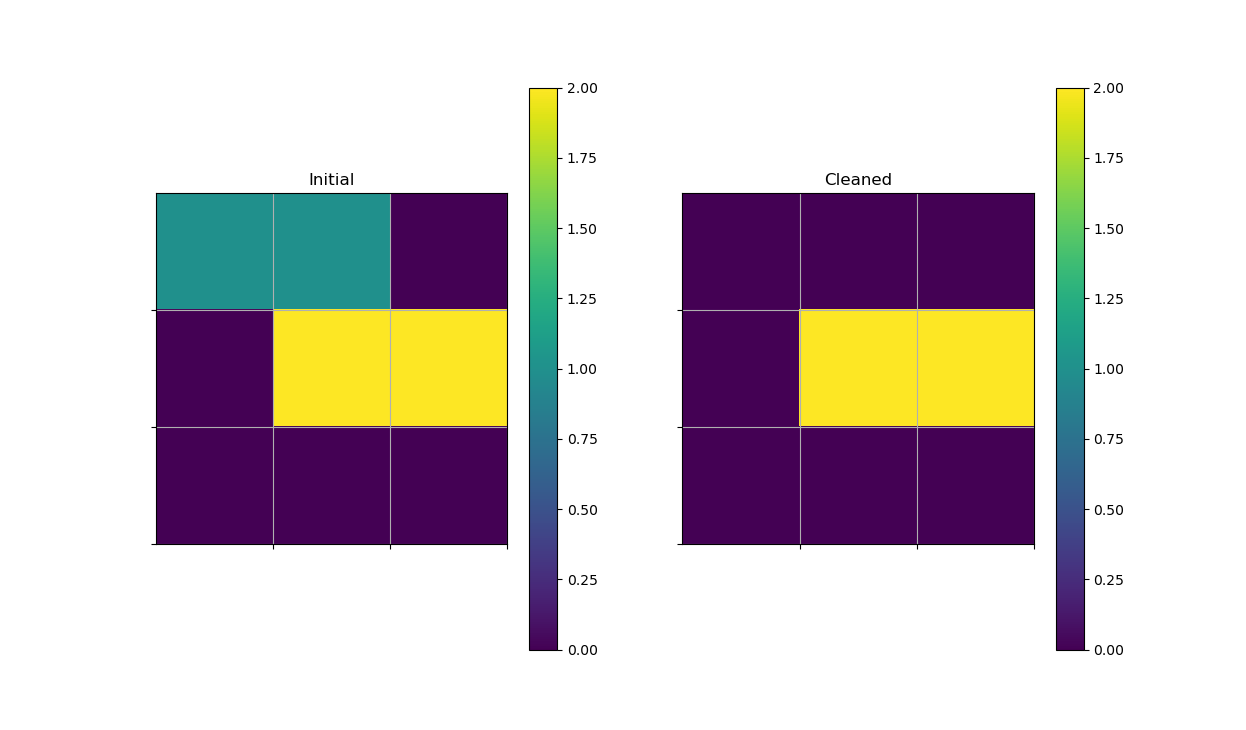
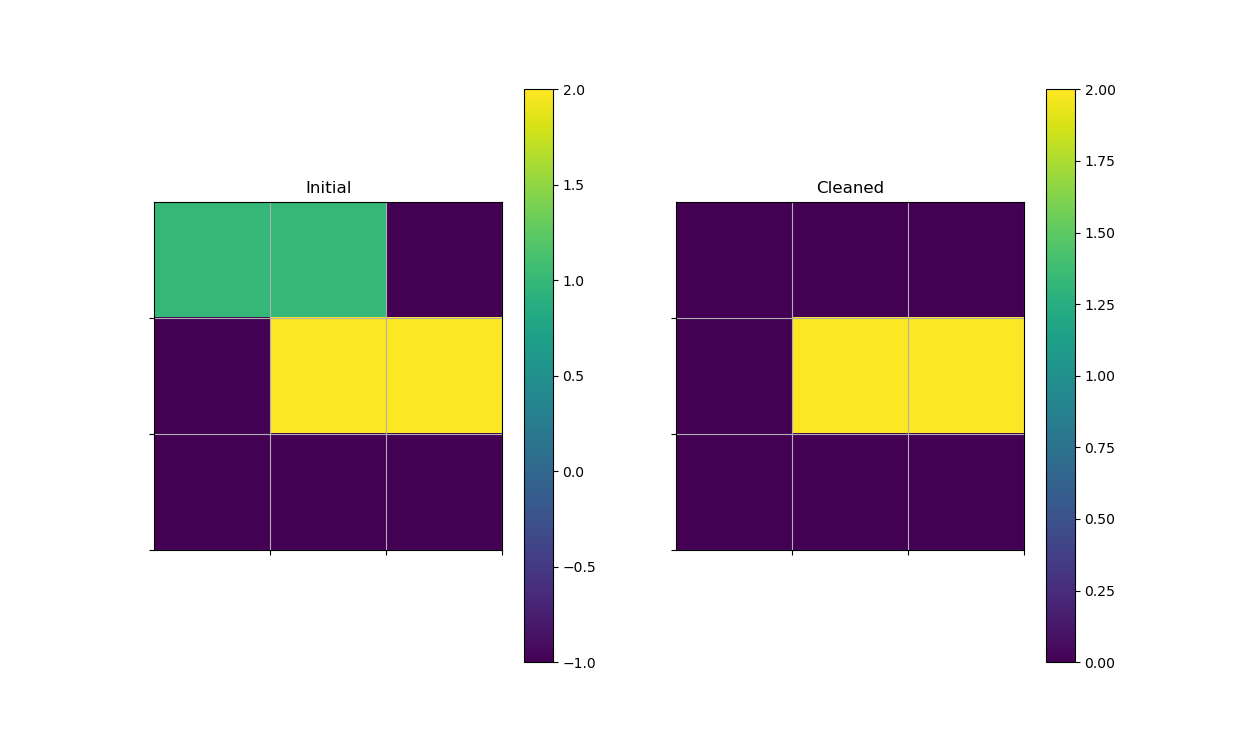
Updated README

diff --git a/VacuumCleaningRobot.py b/VacuumCleaningRobot.py
@@ -57,8 +57,8 @@ def main():
 
 	generate_and_initialize(rows, cols)
 	
-	dirty_grids = input("Enter dirty grids").split()
-	obstacle_grids = input("Enter Obstacle grids").split()
+	dirty_grids = input("Enter dirty grids\n").split()
+	obstacle_grids = input("Enter Obstacle grids\n").split()
 
 	if len(dirty_grids) > rows * cols or len(obstacle_grids) > rows * cols: 
 		exit()
@@ -87,9 +87,9 @@ def main():
 	plt.xticks(np.arange(0.5, rows+1, step = 1))
 	plt.yticks(np.arange(0.5, cols+1, step = 1))
 	plt.imshow(map)
-	plt.grid(True, which="both")
 	ax.set_xticklabels([])
 	ax.set_yticklabels([])
+	plt.grid(True, which="both")
 	im = plt.imshow(map)
 	plt.colorbar(im, orientation='vertical')
 

diff --git a/README.md b/README.md
@@ -38,8 +38,11 @@ The third set of values correspond to the location of the
 
 ![3x3 Grid](./Screenshots/3x3.png)
 
-__The blue colored square represents the dirty grids__
+![3x3 Grid](./Screenshots/3x3_1.png)
 
-__The yellow squares are obstacles__
 
-__Purple represents the clean grids__
+__Green - Dirty__
+
+__Yellow - Obstacle__
+
+__Purple - Clean__
